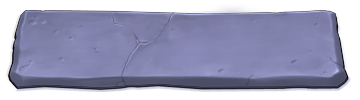
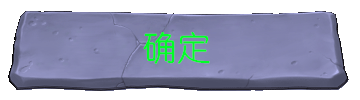
重绘了按钮 重新优化了撑杆僵尸

diff --git a/pvz_01/pvz_01.cpp b/pvz_01/pvz_01.cpp
@@ -7,7 +7,7 @@ MainWindow::MainWindow(QWidget* parent)
 {
 	status = Begin;
 	currentWidget = nullptr;
-	currentWidget = new WelcomeInterface;
+	currentWidget = new WelcomeInterface(this);
 
 	currentWidget->show();
 	historyWidget = nullptr;
@@ -71,7 +71,7 @@ void MainWindow::resetEverything()
 		delete historyWidget;
 		historyWidget = nullptr;
 	}
-	currentWidget = new PlayingInterface(nullptr, &console);
+	currentWidget = new PlayingInterface(this, &console);
 	currentWidget->show();
 	delete temp;
 	QObject::connect(&console, SIGNAL(gameOver(bool)), currentWidget, SLOT(gameOver(bool)));
@@ -112,7 +112,7 @@ void MainWindow::gameReturn()
 {
 	status = Begin;
 	historyWidget = currentWidget;
-	currentWidget = new WelcomeInterface;
+	currentWidget = new WelcomeInterface(this);
 	historyWidget->hide();
 	currentWidget->show();
 	connect();

diff --git a/pvz_01/pathname.h b/pvz_01/pathname.h
@@ -48,7 +48,7 @@ const QString BULLET_FOLDER[] =
 const QString SHOVEL_PATH = "../pvz-material/images/interface/Shovel.png";
 const QString OPTION_BUTTON_PATH = "../pvz-material/button/option.png";
 const QString PICKCARD_PATH = "../pvz-material/images/interface/SeedChooser_Background.png";
-const QString PICKCARD_BUTTON_PATH = "../pvz-material/images/interface/ShovelBack.png";
+const QString PICKCARD_BUTTON_PATH = "../pvz-material/button/ShovelBack.png";
 const QString SETTING_PATH = "../pvz-material/images/interface/OptionsMenuback32.png";
 const QString SETTING_BUTTON_PATH = "../pvz-material/button/setting.png";
 const QString RESTART_BUTTON_PATH = "../pvz-material/button/restart.png";

diff --git a/pvz_01/playing_interface.cpp b/pvz_01/playing_interface.cpp
@@ -507,8 +507,8 @@ void PlayingInterface::paintEvent(QPaintEvent*)
 			}
 			else
 			{
-				//if (currentConsole.duration == chosen->lastStepTime)
-					//zombiesShown[i]->rect.moveLeft(zombiesShown[i]->rect.x() - 10);
+				if (currentConsole.duration == chosen->lastStepTime)
+					zombiesShown[i]->rect.moveLeft(zombiesShown[i]->rect.x() - 5);
 			}
 		}
 		if (zombiesShown[i]->movie()->fileName() != newFileName)

diff --git a/pvz_01/game_console.cpp b/pvz_01/game_console.cpp
@@ -533,7 +533,7 @@ void GameConsole::dealZombiesMove()
 			{
 
 			}
-			if ((zombies[i]->step == 1 || zombies[i]->step == 2) && duration - zombies[i]->lastStepTime >= 2500)
+			if ((zombies[i]->step == 1 || zombies[i]->step == 2) && duration - zombies[i]->lastStepTime >= 1500)
 			{
 				zombies[i]->step++;
 				zombies[i]->lastStepTime = duration;

diff --git a/pvz_01/selectcard.cpp b/pvz_01/selectcard.cpp
@@ -27,7 +27,7 @@ SelectCard::SelectCard(QWidget* parent)
 		}
 	}
 	this->ok = new MyButton(this, PICKCARD_BUTTON_PATH);
-	this->ok->setSize(QRect(182, 450, 100, 60));
+	this->ok->setSize(QRect(182, 450, 120, 60));
 	this->ok->setOffset(2, 2);
 
 	statement = new QLabel(this);

diff --git a/pvz_01/main.cpp b/pvz_01/main.cpp
@@ -8,6 +8,6 @@ int main(int argc, char *argv[])
 	QDir::setCurrent(QCoreApplication::applicationDirPath());
 	QApplication a(argc, argv);
 	MainWindow win;
-	//win.show();
+	win.show();
 	return a.exec();
 }
